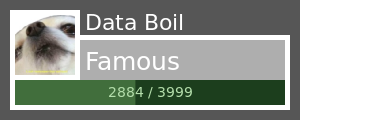
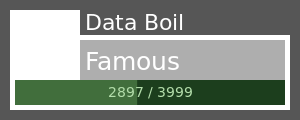
updated website

diff --git a/server/index.js b/server/index.js
@@ -38,7 +38,7 @@ var called;
 var erp;
 var noco;
 
-var first = "redsox ayo";
+var first;
 var second;
 var third; 
 
@@ -60,6 +60,14 @@ setInterval(function() {
 
 bot.on("ready", () => {
     console.log(`Ready to server in ${bot.channels.size} channels on ${bot.guilds.size} servers, for a total of ${bot.users.size} users.`);
+    getLeaders(function(err, result) {
+		first = {first: result.rows[0].username, fpoints: result.rows[0].points};
+		second = {second: result.rows[1].username, spoints: result.rows[1].points};
+		third = {third: result.rows[2].username, tpoints: result.rows[2].points};
+		if (err) {
+			console.log(err);
+		}
+	});
 });
 
 /*bot.on("guildMemberAdd", (member) => {
@@ -344,9 +352,6 @@ bot.on("message", msg => {
     if (msg.content.startsWith(".leaders")) {
 
         getLeaders(function(err, result) {
-			first = result.rows[0].username;
-			second = result.rows[1].username;
-			third = result.rows[2].username;
             if (err) {
                 console.log(err);
             }
@@ -995,10 +1000,10 @@ bot.on("message", msg => {
 		var todo;
 		var done;
 		
-		var download = function(uri, filename, callback){
+		/*var download = function(uri, filename, callback){
 			request.head(uri, function(err, res, body){
 				/*console.log('content-type:', res.headers['content-type']);
-				console.log('content-length:', res.headers['content-length']);*/
+				console.log('content-length:', res.headers['content-length']);
 
 				request(uri).pipe(fs.createWriteStream(filename)).on('close', callback);
 			});
@@ -1006,7 +1011,8 @@ bot.on("message", msg => {
 		
 		download(avatar, 'server/avatar.png', function(){
 			makeImage();
-		});
+		});*/
+		makeImage();
 		
 		function makeImage() {
 		getInfo(target, function(err, result) {
@@ -1047,6 +1053,7 @@ bot.on("message", msg => {
 			var ctx = canvas.getContext('2d');
 			var out = fs.createWriteStream(__dirname + '/text.png');
 			var stream = canvas.pngStream();
+			var img = new Image();
 			
 			//Main BG
 			ctx.beginPath();
@@ -1084,14 +1091,13 @@ bot.on("message", msg => {
 			ctx.fillStyle = "white"; //#209433
 			ctx.fill();
 			
-			var img = new Image();
-			img.onload = function () {
+			img.onload = function() {
 				ctx.drawImage(img, 15, 15, 60, 60);
 			}
-			img.onerror = function (err) {
+			img.onerror = function(err) {
 				console.log(err);
 			}
-			img.src = fs.readFileSync(path.join(__dirname, 'avatar.png'));
+			img.src = 'http://i.imgur.com/et9UTnj.jpg';
 			
 			ctx.fillStyle = "white";
 			ctx.font = '22px Arial';
@@ -1112,7 +1118,7 @@ bot.on("message", msg => {
 			stream.on('end', function(){
 			});
 
-			msg.channel.send("Profile for " + guy, {files: ["server/text.png"]});
+			msg.channel.send("Profile for the " + guy, {files: ["server/text.png"]});
 			
 		});
 	}
@@ -1308,6 +1314,9 @@ app.use('/api', api());
 //     res.redirect(301, '/404');
 // });
 
+app.get('/ajax', function(req, res) {
+    res.send({fir: first, sec: second, thi: third});
+});
 
 app.server.listen(process.env.PORT || 8080);
 

diff --git a/client/index.html b/client/index.html
@@ -20,18 +20,23 @@
 		const bot = new Discord.Client();
 		
 		bot.on("ready", () => {
-			$('.title').text('Bot is ONLINE!');
-		});
-		
-		bot.on('message', msg => {
-			const guildTag = msg.channel.type === 'text' ? `[${msg.guild.name}]` : '[DM]';
-			const channelTag = msg.channel.type === 'text' ? `[#${msg.channel.name}]` : '';
-			console.log(`${guildTag}${channelTag} ${msg.author.username}#${msg.author.discriminator}: ${msg.content}`);
+			$('.title').css('color', 'green');
 		});
 		
 		bot.login("MjU3ODUzNDUyNTczNjA1ODkw.CzHkmg.ABl6qzKngiG2LQknVw3vfcoj6SQ");
+		
+		$(function() {
+			$.get('/ajax', function(res) {
+				$('.first h3').text(res.fir.first);
+				$('.first p').text(res.fir.fpoints);
+				$('.second h3').text(res.sec.second);
+				$('.second p').text(res.sec.spoints);
+				$('.third h3').text(res.thi.third);
+				$('.third p').text(res.thi.tpoints);
+			});
+		});
 	</script>
-	<div class="title">Bot Name</div>
+	<div class="title">The Child Catcher</div>
 	<div class="main">
 		<div class="left">
 			<div class="leaderboard first">

diff --git a/client/main.css b/client/main.css
@@ -3,12 +3,14 @@
 body {
 	background: #7f8c8d;
 	font-family: 'Quicksand', sans-serif;
+	margin: 0;
+	padding: 0;
 }
 
 .title {
 	font-family: 'Quicksand', sans-serif;
 	background: #bdc3c7;
-	width: 600px;
+	width: 100%;
 	height: 180px;
 	line-height: 180px;
 	font-size: 70px;
@@ -20,7 +22,7 @@ body {
 
 .main {
 	width: 95%;
-	height: 350px;
+	height: 400px;
 	//background: #bdc3c7;
 	margin: 0 auto;
 }
@@ -53,7 +55,7 @@ body {
 .leaderboard h3 {
 	font-size: 25px;
 	padding-top: 10px;
-	color: #b6b6b6;
+	color: #8c8c8c;
 }
 
 .leaderboard img {
@@ -63,5 +65,6 @@ body {
 }
 
 .leaderboard p {
-	font-size: 25px;
+	line-height: 5px;
+	font-size: 30px;
 }
